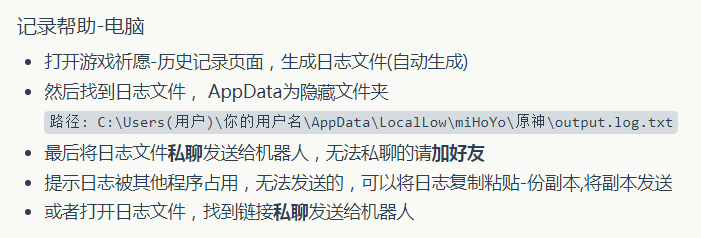
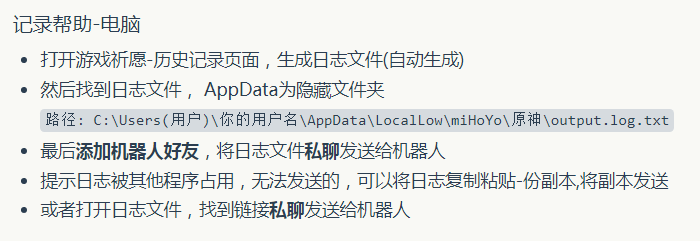
修复没有加好友私聊回复失败

Changed region(s): [[0.03, 0.3235, 0.99, 0.9412], [0.03, 0.2059, 0.69, 0.2941], [0.0, 0.0588, 0.21, 0.1471]]

diff --git a/lib/app/gachaLog.js b/lib/app/gachaLog.js
@@ -298,7 +298,12 @@ async function getLog(e) {
   );
 
   if (base64) {
-    e.reply(segment.image(`base64://${base64}`));
+    //发送文件方式 但是不是好友
+    if(e.file && !e.isFriend){
+
+    }else{
+      e.reply(segment.image(`base64://${base64}`));
+    }
   }
   return true;
 }
@@ -602,6 +607,8 @@ async function bingFile(e) {
     return;
   }
 
+  e.isFriend = Bot.fl.get(e.from_id);
+
   let path = "data/file/";
 
   if (!fs.existsSync(path)) {
@@ -625,11 +632,15 @@ async function bingFile(e) {
   let url = txt.match(/authkey_ver=(.*)hk4e_cn/);
 
   if (!url) {
-    e.reply("请先游戏里打开抽卡记录页面，再发送文件");
+    if(e.isFriend){
+      e.reply("请先游戏里打开抽卡记录页面，再发送文件");
+    }
     return true;
   }
 
-  e.reply("日志文件发送成功");
+  if(e.isFriend){
+    e.reply("日志文件发送成功");
+  }
 
   //删除文件
   fs.unlink(textPath, (err) => {});

diff --git a/resources/logHelp/记录帮助.md b/resources/logHelp/记录帮助.md
@@ -20,6 +20,6 @@
 - 打开游戏祈愿-历史记录页面，生成日志文件(自动生成)
 - 然后找到日志文件， AppData为隐藏文件夹
 `路径: C:\Users(用户)\你的用户名\AppData\LocalLow\miHoYo\原神\output.log.txt`
-- 最后将日志文件**私聊**发送给机器人，无法私聊的请**加好友**
+- 最后添加机器人好友，将日志文件私聊发送给机器人
 - 提示日志被其他程序占用，无法发送的，可以将日志复制粘贴-份副本,将副本发送
 - 或者打开日志文件，找到链接**私聊**发送给机器人
